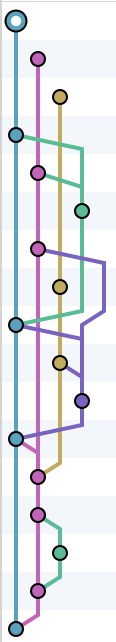
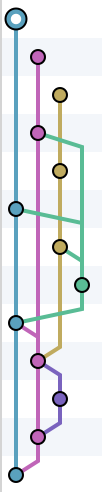
Simplified test 25

Changed region(s): [[0.0294, 0.0, 0.9412, 1.0]]

diff --git a/git2graph_test.go b/git2graph_test.go
@@ -1264,84 +1264,66 @@ func Test24(t *testing.T) {
 func Test25(t *testing.T) {
 	// Initial input
 	inputNodes := make([]map[string]interface{}, 0)
-	inputNodes = append(inputNodes, map[string]interface{}{"id": "0", "parents": []string{"3"}})
-	inputNodes = append(inputNodes, map[string]interface{}{"id": "1", "parents": []string{"4"}})
-	inputNodes = append(inputNodes, map[string]interface{}{"id": "2", "parents": []string{"7"}})
-	inputNodes = append(inputNodes, map[string]interface{}{"id": "3", "parents": []string{"8", "5"}})
-	inputNodes = append(inputNodes, map[string]interface{}{"id": "4", "parents": []string{"6", "5"}})
-	inputNodes = append(inputNodes, map[string]interface{}{"id": "5", "parents": []string{"8"}})
-	inputNodes = append(inputNodes, map[string]interface{}{"id": "6", "parents": []string{"12", "10"}})
-	inputNodes = append(inputNodes, map[string]interface{}{"id": "7", "parents": []string{"9"}})
-	inputNodes = append(inputNodes, map[string]interface{}{"id": "8", "parents": []string{"11", "10"}})
-	inputNodes = append(inputNodes, map[string]interface{}{"id": "9", "parents": []string{"12", "10"}})
+	inputNodes = append(inputNodes, map[string]interface{}{"id": "0", "parents": []string{"5"}})
+	inputNodes = append(inputNodes, map[string]interface{}{"id": "1", "parents": []string{"3"}})
+	inputNodes = append(inputNodes, map[string]interface{}{"id": "2", "parents": []string{"4"}})
+	inputNodes = append(inputNodes, map[string]interface{}{"id": "3", "parents": []string{"9", "7"}})
+	inputNodes = append(inputNodes, map[string]interface{}{"id": "4", "parents": []string{"6"}})
+	inputNodes = append(inputNodes, map[string]interface{}{"id": "5", "parents": []string{"8", "7"}})
+	inputNodes = append(inputNodes, map[string]interface{}{"id": "6", "parents": []string{"9", "7"}})
+	inputNodes = append(inputNodes, map[string]interface{}{"id": "7", "parents": []string{"8"}})
+	inputNodes = append(inputNodes, map[string]interface{}{"id": "8", "parents": []string{"12", "9"}})
+	inputNodes = append(inputNodes, map[string]interface{}{"id": "9", "parents": []string{"11", "10"}})
 	inputNodes = append(inputNodes, map[string]interface{}{"id": "10", "parents": []string{"11"}})
-	inputNodes = append(inputNodes, map[string]interface{}{"id": "11", "parents": []string{"16", "12"}})
-	inputNodes = append(inputNodes, map[string]interface{}{"id": "12", "parents": []string{"13"}})
-	inputNodes = append(inputNodes, map[string]interface{}{"id": "13", "parents": []string{"15", "14"}})
-	inputNodes = append(inputNodes, map[string]interface{}{"id": "14", "parents": []string{"15"}})
-	inputNodes = append(inputNodes, map[string]interface{}{"id": "15", "parents": []string{"16"}})
-	inputNodes = append(inputNodes, map[string]interface{}{"id": "16", "parents": []string{}})
+	inputNodes = append(inputNodes, map[string]interface{}{"id": "11", "parents": []string{"12"}})
+	inputNodes = append(inputNodes, map[string]interface{}{"id": "12", "parents": []string{}})
 
 	out, _ := buildTree(inputNodes, customColors)
 
 	// Expected output
-	expectedColumns := []int{0, 1, 2, 0, 1, 3, 1, 2, 0, 2, 3, 0, 1, 1, 2, 1, 0}
+	expectedColumns := []int{0, 1, 2, 1, 2, 0, 2, 3, 0, 1, 2, 1, 0}
 
 	expectedPaths := []map[string]Path{
 		map[string]Path{
-			"3": Path{"3", []Point{Point{0, 0, 0}, Point{0, 3, 0}}, "color1"},
+			"5": Path{"5", []Point{Point{0, 0, 0}, Point{0, 5, 0}}, "color1"},
 		},
 		map[string]Path{
-			"4": Path{"4", []Point{Point{1, 1, 0}, Point{1, 4, 0}}, "color2"},
+			"3": Path{"3", []Point{Point{1, 1, 0}, Point{1, 3, 0}}, "color2"},
 		},
 		map[string]Path{
-			"7": Path{"7", []Point{Point{2, 2, 0}, Point{2, 7, 0}}, "color3"},
+			"4": Path{"4", []Point{Point{2, 2, 0}, Point{2, 4, 0}}, "color3"},
 		},
 		map[string]Path{
-			"8": Path{"8", []Point{Point{0, 3, 0}, Point{0, 8, 0}}, "color1"},
-			"5": Path{"5", []Point{Point{0, 3, 0}, Point{3, 3, 2}, Point{3, 5, 0}}, "color4"},
+			"9": Path{"9", []Point{Point{1, 3, 0}, Point{1, 9, 0}}, "color2"},
+			"7": Path{"7", []Point{Point{1, 3, 0}, Point{3, 3, 2}, Point{3, 7, 0}}, "color4"},
 		},
 		map[string]Path{
-			"6": Path{"6", []Point{Point{1, 4, 0}, Point{1, 6, 0}}, "color2"},
-			"5": Path{"5", []Point{Point{1, 4, 0}, Point{3, 4, 2}, Point{3, 5, 0}}, "color4"},
+			"6": Path{"6", []Point{Point{2, 4, 0}, Point{2, 6, 0}}, "color3"},
 		},
 		map[string]Path{
-			"8": Path{"8", []Point{Point{3, 5, 0}, Point{3, 8, 1}, Point{0, 8, 0}}, "color4"},
+			"8": Path{"8", []Point{Point{0, 5, 0}, Point{0, 8, 0}}, "color1"},
+			"7": Path{"7", []Point{Point{0, 5, 0}, Point{3, 5, 2}, Point{3, 7, 0}}, "color4"},
 		},
 		map[string]Path{
-			"12": Path{"12", []Point{Point{1, 6, 0}, Point{1, 12, 0}}, "color2"},
-			"10": Path{"10", []Point{Point{1, 6, 0}, Point{4, 6, 2}, Point{4, 8, 1}, Point{3, 8, 0}, Point{3, 10, 0}}, "color5"},
+			"9": Path{"9", []Point{Point{2, 6, 0}, Point{2, 9, 1}, Point{1, 9, 0}}, "color3"},
+			"7": Path{"7", []Point{Point{2, 6, 0}, Point{3, 6, 2}, Point{3, 7, 0}}, "color4"},
 		},
 		map[string]Path{
-			"9": Path{"9", []Point{Point{2, 7, 0}, Point{2, 9, 0}}, "color3"},
+			"8": Path{"8", []Point{Point{3, 7, 0}, Point{3, 8, 1}, Point{0, 8, 0}}, "color4"},
 		},
 		map[string]Path{
-			"11": Path{"11", []Point{Point{0, 8, 0}, Point{0, 11, 0}}, "color1"},
-			"10": Path{"10", []Point{Point{0, 8, 0}, Point{3, 8, 2}, Point{3, 10, 0}}, "color5"},
+			"12": Path{"12", []Point{Point{0, 8, 0}, Point{0, 12, 0}}, "color1"},
+			"9":  Path{"9", []Point{Point{0, 8, 0}, Point{1, 8, 2}, Point{1, 9, 0}}, "color2"},
 		},
 		map[string]Path{
-			"12": Path{"12", []Point{Point{2, 9, 0}, Point{2, 12, 1}, Point{1, 12, 0}}, "color3"},
-			"10": Path{"10", []Point{Point{2, 9, 0}, Point{3, 9, 2}, Point{3, 10, 0}}, "color5"},
+			"11": Path{"11", []Point{Point{1, 9, 0}, Point{1, 11, 0}}, "color2"},
+			"10": Path{"10", []Point{Point{1, 9, 0}, Point{2, 9, 2}, Point{2, 10, 0}}, "color5"},
 		},
 		map[string]Path{
-			"11": Path{"11", []Point{Point{3, 10, 0}, Point{3, 11, 1}, Point{0, 11, 0}}, "color5"},
+			"11": Path{"11", []Point{Point{2, 10, 0}, Point{2, 11, 1}, Point{1, 11, 0}}, "color5"},
 		},
 		map[string]Path{
-			"16": Path{"16", []Point{Point{0, 11, 0}, Point{0, 16, 0}}, "color1"},
-			"12": Path{"12", []Point{Point{0, 11, 0}, Point{1, 11, 2}, Point{1, 12, 0}}, "color2"},
-		},
-		map[string]Path{
-			"13": Path{"13", []Point{Point{1, 12, 0}, Point{1, 13, 0}}, "color2"},
-		},
-		map[string]Path{
-			"15": Path{"15", []Point{Point{1, 13, 0}, Point{1, 15, 0}}, "color2"},
-			"14": Path{"14", []Point{Point{1, 13, 0}, Point{2, 13, 2}, Point{2, 14, 0}}, "color6"}, // TODO: Wrong color (color4)
-		},
-		map[string]Path{
-			"15": Path{"15", []Point{Point{2, 14, 0}, Point{2, 15, 1}, Point{1, 15, 0}}, "color6"}, // TODO: Wrong color (color4)
-		},
-		map[string]Path{
-			"16": Path{"16", []Point{Point{1, 15, 0}, Point{1, 16, 1}, Point{0, 16, 0}}, "color2"},
+			"12": Path{"12", []Point{Point{1, 11, 0}, Point{1, 12, 1}, Point{0, 12, 0}}, "color2"},
 		},
 		map[string]Path{},
 	}
